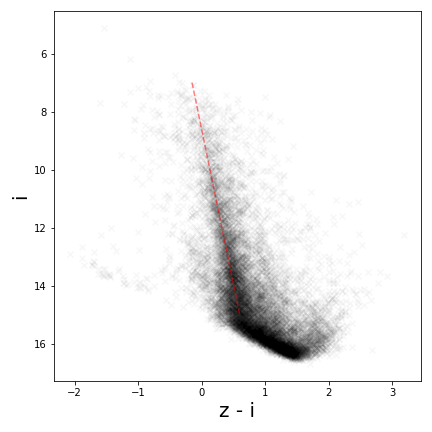
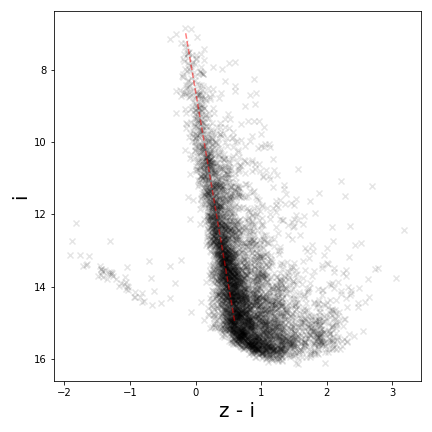
Updates from Overleaf

diff --git a/6a-results-decaps.tex b/6a-results-decaps.tex
@@ -4,36 +4,56 @@
 We next demostrate StarNet on a larger region of the sky.
 The DECAPS survey imaged stars in our own Milky Way, and we chose
 a $4000 \times 2000$ frame centered at coordinates $\text{RA} = 266.044^\circ$ and
-$\text{DEC} = -28.88111^\circ$. See Figure~\ref{fig:decaps_ex} for an example image.
+$\text{DEC} = -28.88111^\circ$. See Figure~\ref{fig:decaps} for an example image.
 
 The DECAPS image is somewhat sparser than M2.
-Thus, we set the Poisson mean parameter of the star density lower
-smaller than on M2 (TODO give numbers), and
-used a tile size of $10\times 10$ pixels with $20\times20$-pixel
-padded tiles. We found that the SGD algorithm converged after
-100 epochs.
-The fitting procudure took approximately 10 minutes; after the fit,
-we produced
-a color magnitude diagram for the full $4000 \times 1000$ frame,
-consisting of $\sim 10,000$ stars, in $5$ seconds (Figure~\ref{fig:decaps_cmd}).
-On the other hand, extrapolating the runtime of PCAT, running MCMC on this frame
-would take on the order of days.
+Thus, we set the Poisson mean parameter of the star density lower smaller than on M2 to fifty stars per 100 x 100 pixel image.
+We used a tile size of $10\times 10$ pixels with $20\times20$-pixel
+padded tiles. 
+We produced
+a catalog for the full $4000 \times 1000$ frame, consisting of $9,000$ stars. 
+The color-magnitude diagram clearly shows a sequence of blue
+stars that are reddened at fainter magnitudes. 
+
+With the smaller density of stars, 
+the SGD algorithm converged after only 100 epochs; 
+the fit took ten minutes. After the fit, producing the catalog 
+took only two seconds. 
+On the other hand, extrapolating the runtime of PCAT, running MCMC on the same frame
+would take on the order of day.
 
 
-\begin{figure}[tb]
+\begin{figure}[!htb]
     \centering
-    \includegraphics[width=0.8\textwidth]{./figures/decaps/example_subimage1000_decaps.png}
-    \vspace{-0.4cm}
-    \caption{A 1000 x 1000 pixel subregion of the DECAM survey. }
-    \label{fig:decaps_ex}
+    \begin{subfigure}[T]{0.45\textwidth}
+    \centering
+    \includegraphics[width=\textwidth]{./figures/decaps/example_subimage1000_decaps.png}
+    \end{subfigure}
+    \hfill
+    \begin{subfigure}[T]{0.5\textwidth}
+    \centering
+    \includegraphics[width=\textwidth]{./figures/decaps/decaps_cmd.png}
+    \end{subfigure}
+    \caption{(Left) A 1000 x 1000 pixel subregion of the DECAM survey. 
+    (Right) Color magnitude diagram for the Decaps image. Red dashed line highlights
+    the inferred blue main-sequence stars}
+    \label{fig:decaps}
 \end{figure}
 
-\begin{figure}[tb]
-    \centering
-    \includegraphics[width=0.4\textwidth]{./figures/decaps/decaps_cmd.png}
-    \vspace{-0.4cm}
-    \caption{Color magnitude diagram for the Decaps image. Red dashed line highlights
-    the inferred blue main-sequence stars.
-    }
-    \label{fig:decaps_cmd}
-\end{figure}
+% \begin{figure}[tb]
+%     \centering
+%     \includegraphics[width=0.8\textwidth]
+%     \vspace{-0.4cm}
+%     \caption{A 1000 x 1000 pixel subregion of the DECAM survey. }
+%     \label{fig:decaps_ex}
+% \end{figure}
+
+% \begin{figure}[tb]
+%     \centering
+%     \includegraphics[width=0.4\textwidth]{./figures/decaps/decaps_cmd.png}
+%     \vspace{-0.4cm}
+%     \caption{Color magnitude diagram for the Decaps image. Red dashed line highlights
+%     the inferred blue main-sequence stars.
+%     }
+%     \label{fig:decaps_cmd}
+% \end{figure}

diff --git a/1-introduction.tex b/1-introduction.tex
@@ -116,7 +116,7 @@ Section~\ref{sec:var_inference} details the variational distribution and neural 
 Finally, and critically, StarNet is fit using an expected
 \textit{forward} Kullback–Leibler divergence
 between the approximate posterior $q$ and the exact posterior $p$,
-where the expectation is taken over the data distribution defined by the statistical model.
+where the expectation is taken over the data distribution defined by the statistical model. 
 In contrast, traditional variational inference minimizes the a \textit{reverse}
 KL divergence~\citep{bishop2006pattern}, evaluated at the observed data.
 The forward KL is minimized using stochastic gradient descent (SGD),
@@ -141,11 +141,18 @@ where the approximate posterior is far from the exact posterior in terms of KL d
 The forward KL has been has been used in previous research to train deep generative
 models~\citep{ambrogioni2019favi,le2020revisiting},
 and appears in the \textit{sleep phase} of the wake-sleep algorithm
-\citep{Hinton1995wake_sleep, bornschein2014reweighted,le2020revisiting}.
-However, to the best of our knowledge, this is the first instance of applyiing
-variational inference with a foward KL for scientific purposes.
-Specifically, we use this inference techinique to find a latent space that is interpretable:
-it is the set of all possible astronomical catalogs.
+\citep{Hinton1995wake_sleep, bornschein2014reweighted,le2020revisiting}. 
+This approach is an example of simulation-based inference, 
+which has found applications in particle physics, where theory can provide realistic simulations \citep{Cranmer_2020}. For example,~\cite{Baydin2019} use simulation-based inference to model
+time-series data of particle paths at the Large Hadron Collider, 
+and they use the forward KL objective to fit a recurrent neural network, 
+whose output are proposals to an MCMC sampling scheme. 
+To the best of our knowledge, this instance of applying variational inference with a forward KL to do inference over a transdimensional 
+latent space of sets. 
+
+% However, to the best of our knowledge, this is the first instance of applying variational inference with a foward KL for scientific purposes.
+% Specifically, we use this inference techinique to find a latent space that is interpretable:
+% it is the set of all possible astronomical catalogs.
 
 
 We applied StarNet to the M2 globular cluster as imaged by SDSS
@@ -153,7 +160,7 @@ and to a subregion of DECam, which imaged stars in the Milky Way.
 % We used the catalog reported in \cite{Sarajedini_2007}, which imaged M2 using the Hubble Space Telescope, as a ground truth to evaluate our performace.
 On the $100 \times 100$ pixel region of M2,
 StarNet was more accurate than both the MCMC-based cataloger PCAT
-and traditional cataloging approaches (Section~\ref{sec:results_on_m2}):
+and traditional cataloging approaches (Section~\ref{sec:results_on_m2}) in several metrics:
 though MCMC is asymptotically exact, on human timescales, it often suffers from incomplete mixing. 
 We then demonstrate the scalability of StarNet by cataloging a $2000\times4000$ pixel frame from the DECam survey:
 our method can produce scientifically relevant results on the order of minutes ---

diff --git a/5-results-synth_data.tex b/5-results-synth_data.tex
@@ -27,7 +27,7 @@ The prior on the number of stars was set to Poisson with mean $\mu = 4$.
 
 Figure~\ref{fig:optim_path}~(top row) charts the test ELBO~\eqref{eq:elbo_on_test}
 as the optimization proceeds in our three approaches.
-The first approach optimizes the ELBO with SGD and the REINFORCE gradient estimator.
+The first approach optimizes the ELBO with SGD and a REINFORCE plus control-variate gradient estimator.
 This optimization did not converge, likely due to the high variance of the REINFORCE estimator (Figure~\ref{fig:optim_path}a).
 For a lower variance gradient estimator, the second approach employed the reparameterized gradient. To employ this gradient estimator, we analytically integrated the ELBO with respect to the number of stars $N$ to remove the discrete random variable.
 See Appendix~\ref{sec:reparam_details} for details about the gradient estimators.
@@ -67,9 +67,9 @@ $\mathcal{L}_{fwd}$ is shown in~Figure~\ref{fig:optim_path}(f).
     \includegraphics[width=0.9\textwidth]{figures/elbo_vs_sleep/optim_path_detect_compare.png}
     \end{subfigure}
     \vspace{-1.5cm}
-    \caption{(Top row) The ELBO as the optimization progresses for six random restarts.
-    (Bottom row) In red, modal locations from ELBO-optimized and FAVI-optimized variational posteriors, for one of the six restarts.
-    In blue, the true locations. TODO fix figure titles}
+    \caption{(Top row) The negative ELBO as the optimization progresses for six random restarts.
+    (Bottom row) In red, modal locations from ELBO-optimized and $\mathcal{L}_{fwd}$-optimized variational posteriors, for one of the six restarts.
+    In blue, the true locations. }
     \label{fig:optim_path}
 \end{figure}
 
@@ -88,11 +88,17 @@ $\mathcal{L}_{fwd}$ is shown in~Figure~\ref{fig:optim_path}(f).
     To move an estimated location to a correct location,
     the optimization path must traverse a region where the negative ELBO is larger than the current configuration.
     In contrast, the expected forward KL objective is quadratic in the estimated location,
-    and the gradient does not vanish. TODO fix figure titles }
+    and the gradient does not vanish. }
     \label{fig:local_optima_cartoon}
 \end{figure}
 
-% Also, note that low-variance gradients of the ELBO for this simple example were constructed by analytically integrating out $N$.
+Finally, note that low-variance gradients of the ELBO for this simple example were constructed by analytically integrating out $N$, 
+and this was only possible because the image consisted of only four tiles. 
+For each tile, the variational distribution has support over only 0, 1, or 2 stars.
+Since the variational distribution factorizes over the four tiles, integrating $N$ is a summation of $3^4 = 81$ terms.
+On larger images with more tiles, analytically integrating $N$ would be computationally infeasible,
+and the simple reparameterization trick would not apply as it does in this small illustrative example.
+
 % On a larger images where $N$ is on the order of $\sim1000$ (e.g. on M2), analytically integrating out $N$ would be infeasible.
 
 % Only then could the reparameterization trick be applied to the ELBO, as the remaining latent variables are continuous.

diff --git a/A5-synthetic_tests.tex b/A5-synthetic_tests.tex
@@ -20,8 +20,8 @@ of two stars in the image.
         \includegraphics[width=\textwidth]{figures/deblending/summary_statistics.png}
     \end{subfigure}
     \caption{(Top row) Simulated images with two stars separated by distance $\delta$ in pixels.
-    True locations are in blue. Red are detections from the starnet MAP estimate.
-    In these examples, Starnet correctly identified the two stars separated by distance $\delta \geq 1.2$,
+    True locations are in blue. Red x's are detections from the StarNet MAP estimate.
+    In these examples, StarNet correctly identified the two stars separated by distance $\delta \geq 1.2$,
     but only estimated one star when $\delta \leq 1$.
     (Bottom left) The probability that $N$, the number of sources in the image, equals two
     under the variational posterior, as $\delta$ varies.
@@ -31,13 +31,12 @@ of two stars in the image.
 
 \subsection{Coverage of credible intervals}
 
-We have seen that on M2, the StarNet 95\% credible interval failed
-to contain the ground truth number of stars (Section~\ref{sec:results_on_m2}).
-On M2, we attribute this to model mis-specification, specifically due to a poorly
+We have seen that on M2, the StarNet 95\% credible interval did not contain the ground truth number of stars (Section~\ref{sec:results_on_m2}).
+On M2, we attribute this to model mis-specification, specifically due to an imperfectly
 estimated background.
 
 We check the coverage of StarNet credible intervals on synthetic data
-to rule out any issues with model mis-specification.
+to reveal any issues other than model mis-specification that may explain these results.
 On synthetic data, StarNet again overestimates the number of stars.
 On a single simulated image sampled from the prior,
 the true number of stars ($N = 1195$),
@@ -49,7 +48,7 @@ the approximate posterior distribution (Figure~\ref{fig:starnet_density}).
     \centering
     \includegraphics[width=0.6\textwidth]{./figures/coverage/starnet_histogram.png}
     \vspace{-0.4cm}
-    \caption{Distribution of 5000 samples of the number of sources from the starnet approximate posterior.
+    \caption{Distribution of 5000 samples of the number of sources from the StarNet approximate posterior.
     The true number of sources demarcated in red. }
     \label{fig:starnet_density}
 \end{figure}
@@ -76,7 +75,7 @@ then the StarNet approximate posterior has much closer to correct coverage (Figu
     \centering
     \includegraphics[width=0.8\textwidth]{./figures/coverage/edges_example.png}
     \vspace{-0.4cm}
-    \caption{The expected number of sources under the starnet approximate posterior as a function of distance from the edge (in pixels).
+    \caption{The expected number of sources under the StarNet approximate posterior as a function of distance from the edge (in pixels).
     On the left, we place a star on the left-most edge, and move its location $\delta$ pixels to the right.
     On the right, we place a star on the top-left corner, and move its location $\delta$ pixels towards the bottom-right corner.}
     \label{fig:starnet_edges}

diff --git a/6-results-m2.tex b/6-results-m2.tex
@@ -66,7 +66,7 @@ For PCAT, 300 catalogs were sampled using MCMC; the metrics were computed for ea
     % \vspace{-1cm}
     \caption{Estimated catalogs on four 10$\times$10 subimages from
     M2. Blue dots are stars from the HST catalog used as ground truth.
-    Starnet, PCAT, and DAOPHOT estimated stars are shown as
+    StarNet, PCAT, and DAOPHOT estimated stars are shown as
     red, cyan, and orange crosses, respectively. }
     \label{fig:example_subimages}
 \end{figure}
@@ -81,9 +81,9 @@ Table~\ref{tab:summary_stats} also shows the number of stars inferred by each me
 There are 1114 stars in the HST catalog.
 For probabilistic methods (StarNet and PCAT),
 we display the mean number of stars under the approximate posterior, along with the 5-th and 95-th quantiles.
-We compute the StarNet credible intervals by sampling from the variational posterior on each tile;
-recall that on each tile, the variational posterior on the number of stars is a categorical random variable.
-The the total number of inferred stars in the image is the sum of the number of star in each tile.
+We compute the StarNet credible intervals by sampling from the variational posterior. 
+Recall that on each tile, the variational posterior on the number of stars is a categorical random variable; 
+to construct a distribution for the number of stars on the whole image, we first sample from the per-tile categorical distribution, then sum over all tiles. 
 StarNet credible intervals were three times wider than the PCAT intervals
 and closer to the ground truth.
 The small PCAT credible intervals may be indicative of an MCMC sampler that failed to mix well.
@@ -124,7 +124,7 @@ Of all methods, StarNet best approximated the HST flux distribution (Figure~\ref
     \vspace{-0.4cm}
     \caption{Flux distributions for the $r$-band observations of M2.
     The flux distribution of the HST catalog in grey.
-    Estimated distributions by DAOPHOT, PCAT, and StarNet-WS catalogs overlaid.
+    Estimated distributions by DAOPHOT, PCAT, and StarNet catalogs overlaid.
     For PCAT, the flux distribution is from a single catalog sample. }
     \label{fig:luminosity_fun_m2}
 \end{figure}
@@ -155,7 +155,7 @@ The empirical z-score distributions are close to a standard Gaussian with some d
     \centering
     \includegraphics[width=0.99\textwidth]{figures/m2_results/zscore_calibration.png}
     \vspace{-0.5cm}
-    \caption{The empirical distribution of z-scores for logit-locations (left) and log-fluxes (right) under the StarNet-WS variational posterior.
+    \caption{The empirical distribution of z-scores for logit-locations (left) and log-fluxes (right) under the StarNet variational posterior.
 }
     \label{fig:z-score_calibration}
 \end{figure}

diff --git a/3-var_inference.tex b/3-var_inference.tex
@@ -265,9 +265,14 @@ because the width of the PSF is larger in these images.
 % \end{align}
 % The same neural network is evaluated for all tiles $(s,t)$.
 In amortized inference, the variational parameters $\eta$ to be optimized are neural network weights.
-The architecture consists of several convolutional layers followed by several fully connected layers (Figure~\ref{fig:starnet_arch}).
+The architecture consists of a convolutional layer followed by several residual network layers (which themselves contain convolutions), before ending with several fully connected layers (Figure~\ref{fig:starnet_arch}).
 This architecture has been successful on image classification challenges such as ImageNet~\citep{imagenet2015}.
-The optimization of the architecture for this specific application is left for future work.
+We tuned the architecture using Optuna, automatic hyper-parameter optimization package \citep{optuna_2019}. 
+Our search included the number of convolution layers, 
+the number of fully-connected layers,
+the number of channels in the convolution layers, and the size of the fully-connected layers. 
+See Appendix~\ref{sec:supp_nn_archetecture} for further details 
+concerning the parameters of our neural network architecture. 
 % our focus in this paper is the application of neural networks to provide a variational posterior for cataloging starfields, not the network architecture per se.
 
 
@@ -275,11 +280,12 @@ The optimization of the architecture for this specific application is left for f
 
 \begin{figure}[!tb]
     \centering
-    % \includegraphics[width=0.4\textwidth]{figures/starnet_archetecture2.png}
-    \includegraphics[width=\textwidth]{figures/vi_figures/starnet_archetecture5.png}
+    \includegraphics[width=\textwidth]{figures/vi_figures/starnet_archetecture8.png}
     \vspace{-1.cm}
     \caption{The neural network architecture. The input is a $20\times 20$ padded tile, and the network returns distributional parameters corresponding to sources located in the $10\times 10$ tile outlined in white.
     In this example, there are two sources located in the $10\times10$ tile.
+    Further details concerning the residual network blocks (in blue), see 
+    Appendix~\ref{sec:supp_nn_archetecture}.
     }
     \label{fig:starnet_arch}
 \end{figure}

diff --git a/A1-reparam_details.tex b/A1-reparam_details.tex
@@ -49,6 +49,8 @@ Unbiased gradients are computed as
 The reparameterized gradient includes gradient information $\nabla_z f_\eta(z)$ while the REINFORCE gradient does not. Taking into account the structure of $f$ through its gradient lowers the variance of reparameterized gradient in comparison to the REINFORCE gradient.
 However, if $z$ contains discrete components, there cannot be a differentiable mapping $h_\eta$, and the reparameterization trick will not apply.
 
+TODO need to talk about the fact that we use a baseline. 
+
 \subsection{Gradients for our ELBO vs sleep experiment}
 In Section~\ref{sec:elbo_sleep_compare}, we used a combination of reparameterized and REINFORCE gradients.
 Let $N$ be the discrete component of $z$ (the number of stars) and $y$ be the continuous components (the locations and fluxes).
@@ -98,5 +100,11 @@ g(z) = \sum_{n=1}^{4^{N_{max}}}\nabla_y f_\eta(n, y)\Big|_{y = h_\eta(w)}
 Gradients of this form produced the optimization path in Figure~\ref{fig:optim_path}(b).
 No REINFORCE estimates were required. 
 
+Notice that to compute these re-parameterized gradients we require 
+a summation of $(S \times T)^{N_{max}}$ terms 
+(recall from the main text that $S \times T$ is the total number 
+of tiles in an image). 
+For large images --- i.e. those requiring many tiles --- 
+computing re-parameterized gradients would be infeasible. 
 
 % for $N\sim q_\eta(N)$ and $w\sim F$. Because the variational distribution on locations and fluxes are transformation of Gaussians (recall locations are logit-normal and fluxes log-normal), we take $F$ to be the standard Gaussian, while $h(\cdot ; \eta)$ shifts and scales the standard Gaussian according the the parameters returned by the neural network and applies the appropriate transformation.

diff --git a/7-discussion.tex b/7-discussion.tex
@@ -6,7 +6,7 @@ Importantly, unlike MCMC, StarNet also has the capacity to scale probabilistic c
 
 The quality of StarNet detections is the result of optimizing the forward KL, a different objective than the one traditionally used in variational inference.
 Optimizing the forward KL allows the variational posterior to be fit on large amounts of {\itshape complete} data -- the image along with its latent catalog -- generated from the statistical model.
-While labeled data from simulators has been used in other astronomy applications to train deep neural networks (see for example~\cite{Lanusse_2017_cmudeeplens} and \cite{huang2019finding}), StarNet is the first training procedure to employ simulated data in a statistical framework: the neural network specifies an approximate Bayesian posterior.
+% While labeled data from simulators has been used in other astronomy applications to train deep neural networks (see for example~\cite{Lanusse_2017_cmudeeplens} and \cite{huang2019finding}), StarNet is the first training procedure to employ simulated data in a statistical framework: the neural network specifies an approximate Bayesian posterior.
 
 While the current work focuses on PSF models, our methodology can be extended to
 include more general sources such as galaxies.

diff --git a/A6-nn-archetecture.tex b/A6-nn-archetecture.tex
@@ -1,0 +1,22 @@
+\begin{figure}[!tb]
+    \centering
+    \includegraphics[width=0.8\textwidth]{figures/vi_figures/conv_block.png}
+    \caption{Details of the residual network blocks from Figure~\ref{fig:starnet_arch}.
+    }
+    \label{fig:conv_blocks}
+\end{figure}
+
+
+We detail the neural network architecture. 
+Figure~\ref{fig:starnet_arch} shows a schematic of the architecture, and 
+Figure~\ref{fig:conv_blocks} depicts specifically 
+the residual network blocks. 
+
+The first convolutional layer (green block, Figure~\ref{fig:starnet_arch}) has 17 output-channels, a kernel size of three, a stride of one, and one pixel of padding.
+All convolutional layers inside residual block 1, as well as the convolutional layers on the top row of residual block 2 (Figure~\ref{fig:conv_blocks}) also have the same parameters. 
+Only the convolutional layers on the bottom row of residual block 2 are different:they still have output channels of dimension 17, 
+but use a kernel size of one, and a stride of 2. 
+Inside the residual blocks, the dropout layers have dropuout probability of 0.11399. 
+
+In the final fully connected block (red, \ref{fig:starnet_arch}) have latent dimension 185, and a dropout probability of 0.013123. 
+

diff --git a/4a-wake_sleep.tex b/4a-wake_sleep.tex
@@ -27,7 +27,7 @@ We instead choose to optimize an expectation of the \textit{forward} KL divergen
 an objective that appears in the \textit{sleep phase} of the wake-sleep algorithm
 \citep{Hinton1995wake_sleep, bornschein2014reweighted,le2020revisiting},
 and was re-introduced by \cite{ambrogioni2019favi}, who called this technique
-of minimizing $\mathcal{L}_{favi}$ \textit{Forward Amortized Variational Inference}.
+of minimizing $\mathcal{L}_{fwd}$ \textit{Forward Amortized Variational Inference}.
 
 Section~\ref{sec:sleep_details} details a simple gradient estimator for~\eqref{eq:sleep_obj} that does not require reparameterization or REINFORCE.
 

diff --git a/2-generative_model.tex b/2-generative_model.tex
@@ -44,6 +44,11 @@ Given the flux in the first band $f_{i,1}$ and color $c_{i,b}$,
 the flux in band $b$ is  $f_{i,b} = f_{i,1} \times 10^{c_{i,b} / 2.5}$.
 
 Also like~\cite{Feder_2019}, we set the power law slope $\alpha = 0.5$ and use a standard Gaussian for the color prior ($\mu_c = 0$, $\sigma^2_c = 1$).
+
+Rather than having a hierarchical structure, 
+the prior parameters are fixed in this model. 
+The goal is to produce a posterior on catalogs for a
+specific image, not to model the population over many images. 
 Appendix~\ref{sec:prior_sensitivity} evaluates the
 sensitivity of the resulting catalog to choices of the prior parameters.
 

diff --git a/main.tex b/main.tex
@@ -10,6 +10,10 @@
 \usepackage{subcaption}
 \usepackage{booktabs}
 
+\usepackage{lineno}
+\linenumbers
+
+
 % Any additional packages needed should be included after jmlr2e.
 % Note that jmlr2e.sty includes epsfig, amssymb, natbib and graphicx,
 % and defines many common macros, such as 'proof' and 'example'.
@@ -153,9 +157,14 @@
 \input{A3-prior_sensitivity}
 
 
-\section{Results on Stripe-82}
+\section{Results on SDSS Stripe 82}
 \label{sec:results_sparse_field}
 \input{A4-results-sparse_field}
+
+\section{Neural network archetecture details}
+\label{sec:supp_nn_archetecture}
+\input{A6-nn-archetecture}
+
 
 \clearpage
 
